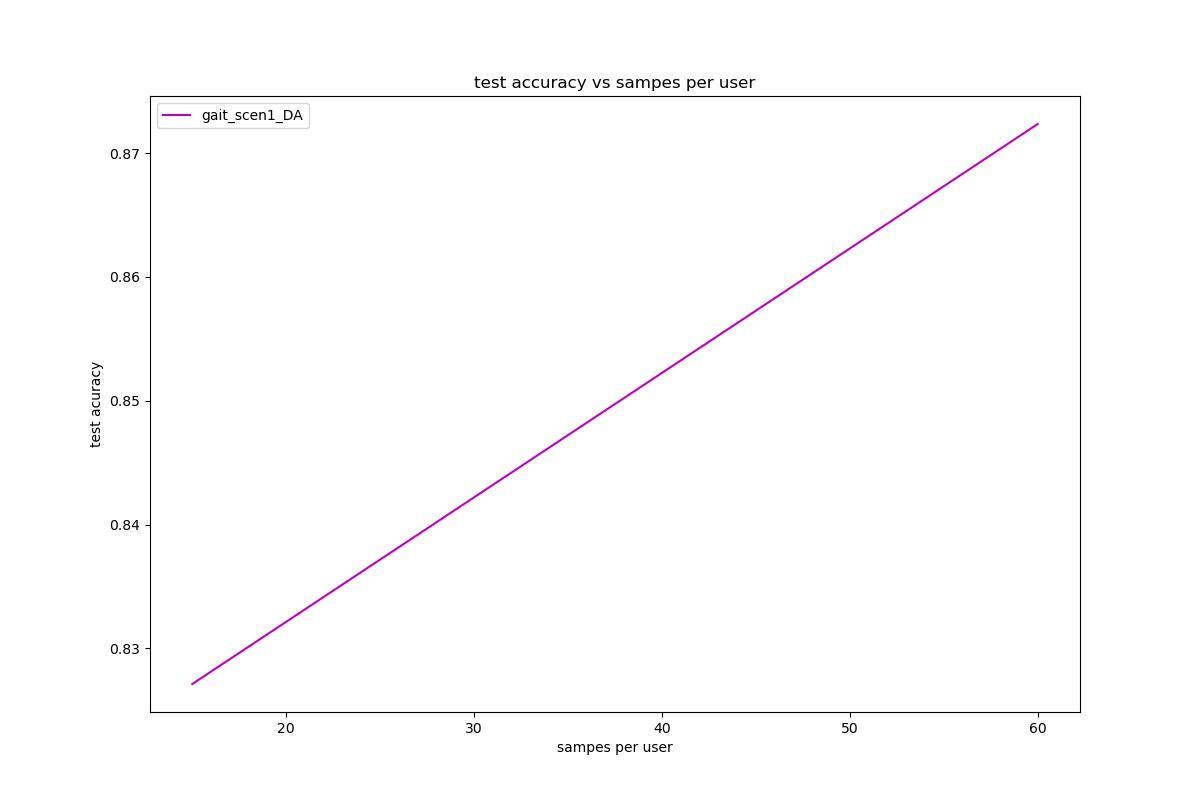
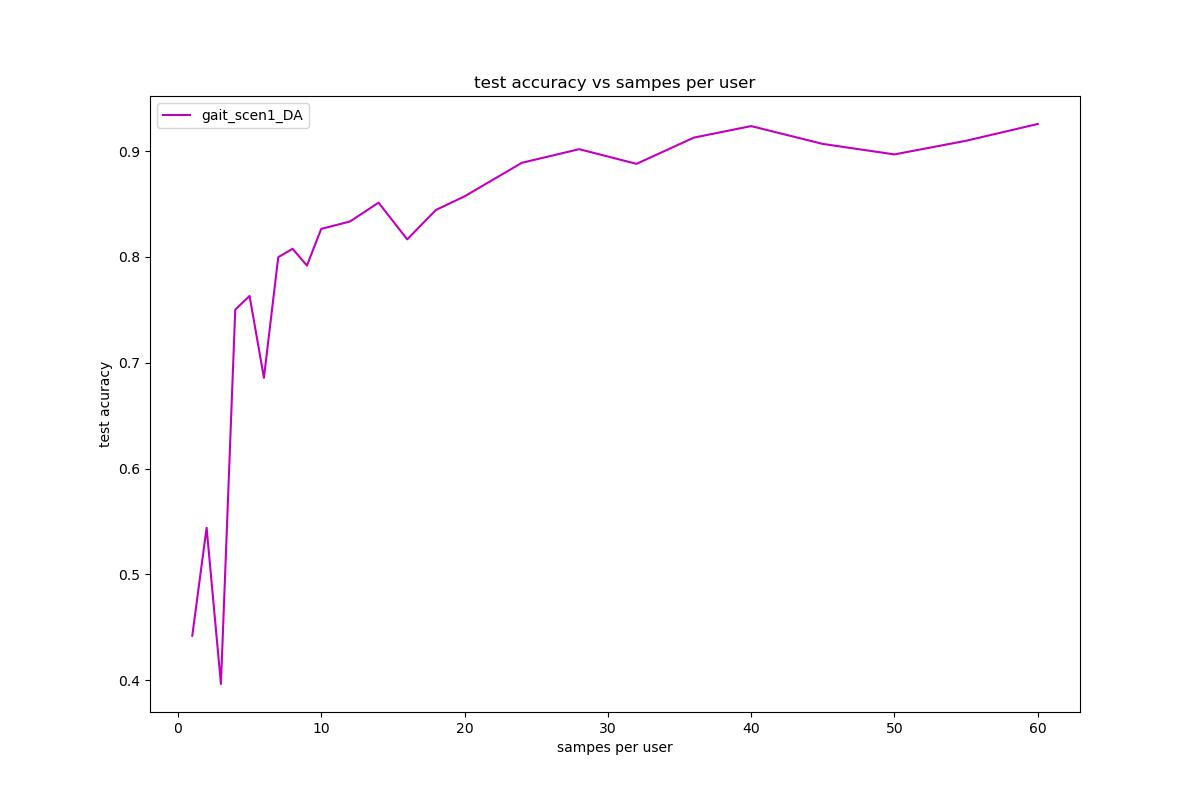
gait scen 1 started

diff --git a/experiments/Gait/scen.1/da/trainers.py b/experiments/Gait/scen.1/da/trainers.py
@@ -14,8 +14,8 @@ def trainer(samples_per_user):
   AUTO = tf.data.AUTOTUNE
   path = "/home/oshanjayawardanav100/biometrics-self-supervised/gait_dataset/idnet/"
   
-  users_2 = list(range(17,51)) #Users for dataset 2
-  users_1 = list(range(1,17)) #Users for dataset 1
+  users_2 = [14, 15, 16, 17, 20, 21, 22, 23, 32, 36, 37, 38, 39, 41, 43, 44, 45, 46, 47, 48, 49, 50] #Users for dataset 2
+  users_1 = [1, 4, 5, 6, 7, 8, 9, 10, 11, 12, 13] #Users for dataset 1
   
   x_train, y_train, x_val, y_val, x_test, y_test, sessions = data_loader_gait(path, classes=users_2, frame_size=frame_size)
   
@@ -38,7 +38,7 @@ def trainer(samples_per_user):
   #ssl_ds_one = tf.data.Dataset.from_tensor_slices(x_train)
   ds_x = (
       ds_x.shuffle(1024, seed=SEED)
-      .map(tf_scale, num_parallel_calls=AUTO)
+      .map(tf_scale_noise, num_parallel_calls=AUTO)
       .batch(BATCH_SIZE)
       .prefetch(AUTO)
   )

diff --git a/experiments/Gait/scen.1/da/transformations_tf.py b/experiments/Gait/scen.1/da/transformations_tf.py
@@ -92,7 +92,7 @@ def tf_drop(input):
   y = tf.numpy_function(drop_numpy, [input], tf.float64)
   return y
   
-def random_numpy(x):
+def scale_noise_numpy(x):
   # x will be a numpy array with the contents of the input to the
   # tf.function
   #augs = [DA_Jitter, DA_Flip, DA_Scaling, DA_MagWarp, DA_Drop]
@@ -100,8 +100,9 @@ def random_numpy(x):
   #np.random.shuffle(indx)
   #aug = augs[indx[0]]
   x = DA_Scaling(x)
+  x = DA_Jitter(x)
   return x
 @tf.function(input_signature=[tf.TensorSpec(None, tf.float64)])
-def tf_random(input):
-  y = tf.numpy_function(random_numpy, [input], tf.float64)
+def tf_scale_noise(input):
+  y = tf.numpy_function(scale_noise_numpy, [input], tf.float64)
   return y

diff --git a/experiments/Gait/scen.1/da/plot_results.py b/experiments/Gait/scen.1/da/plot_results.py
@@ -1,4 +1,4 @@
-from trainers import *
+ pfrom trainers import *
 import numpy as np
 import matplotlib.pyplot as plt
 
